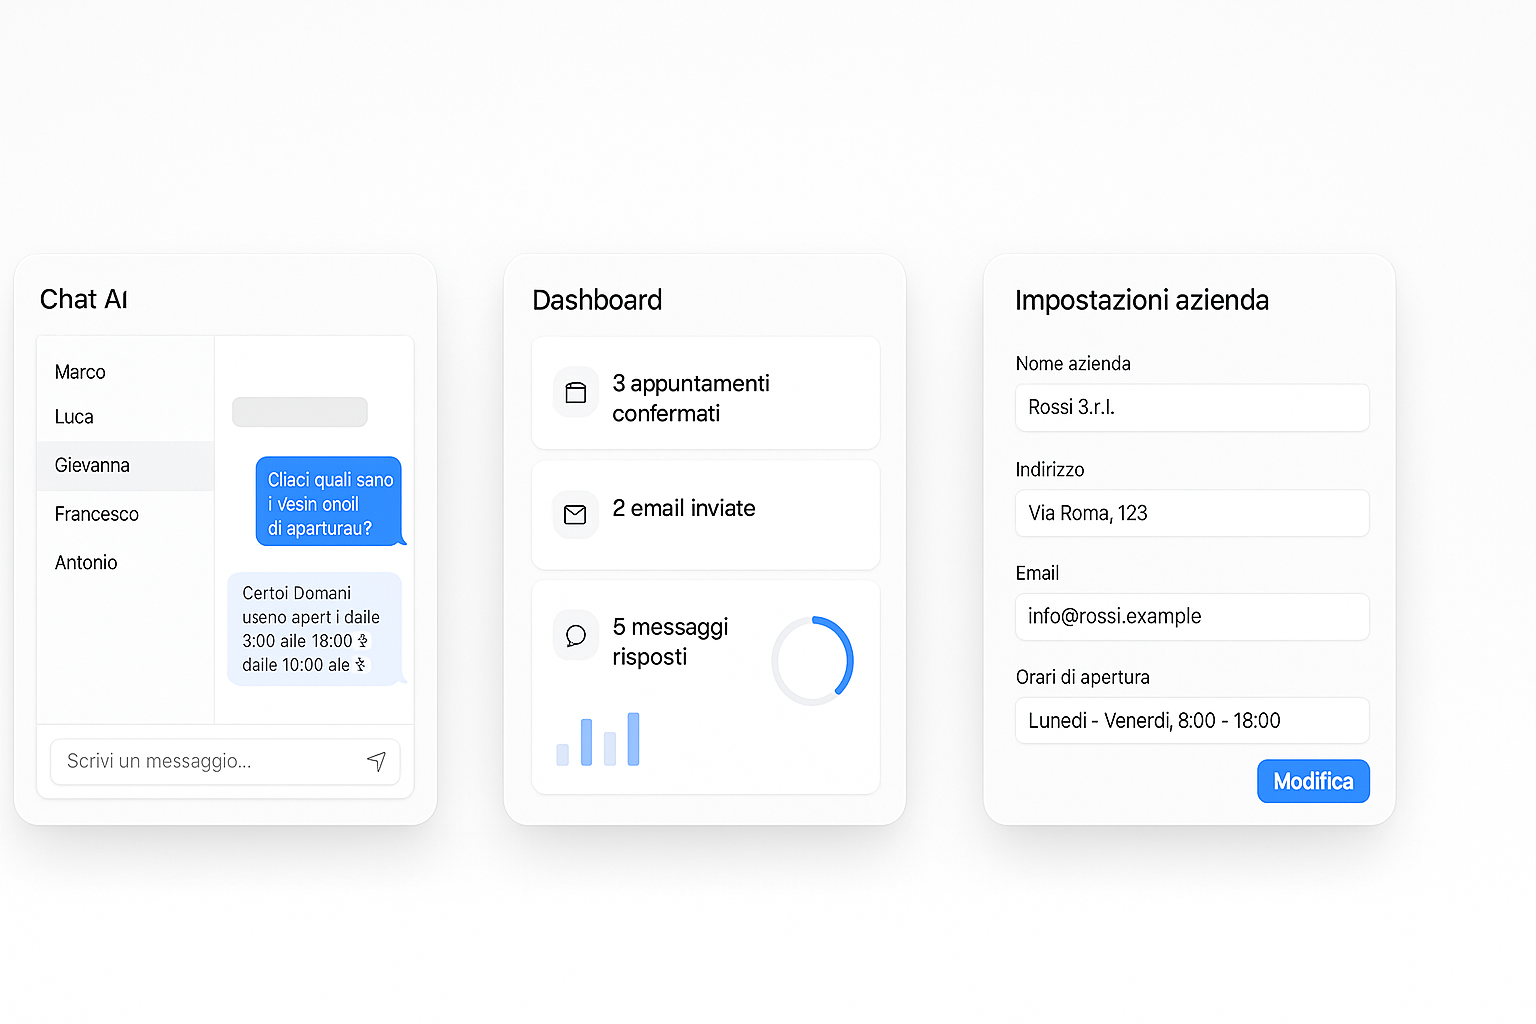
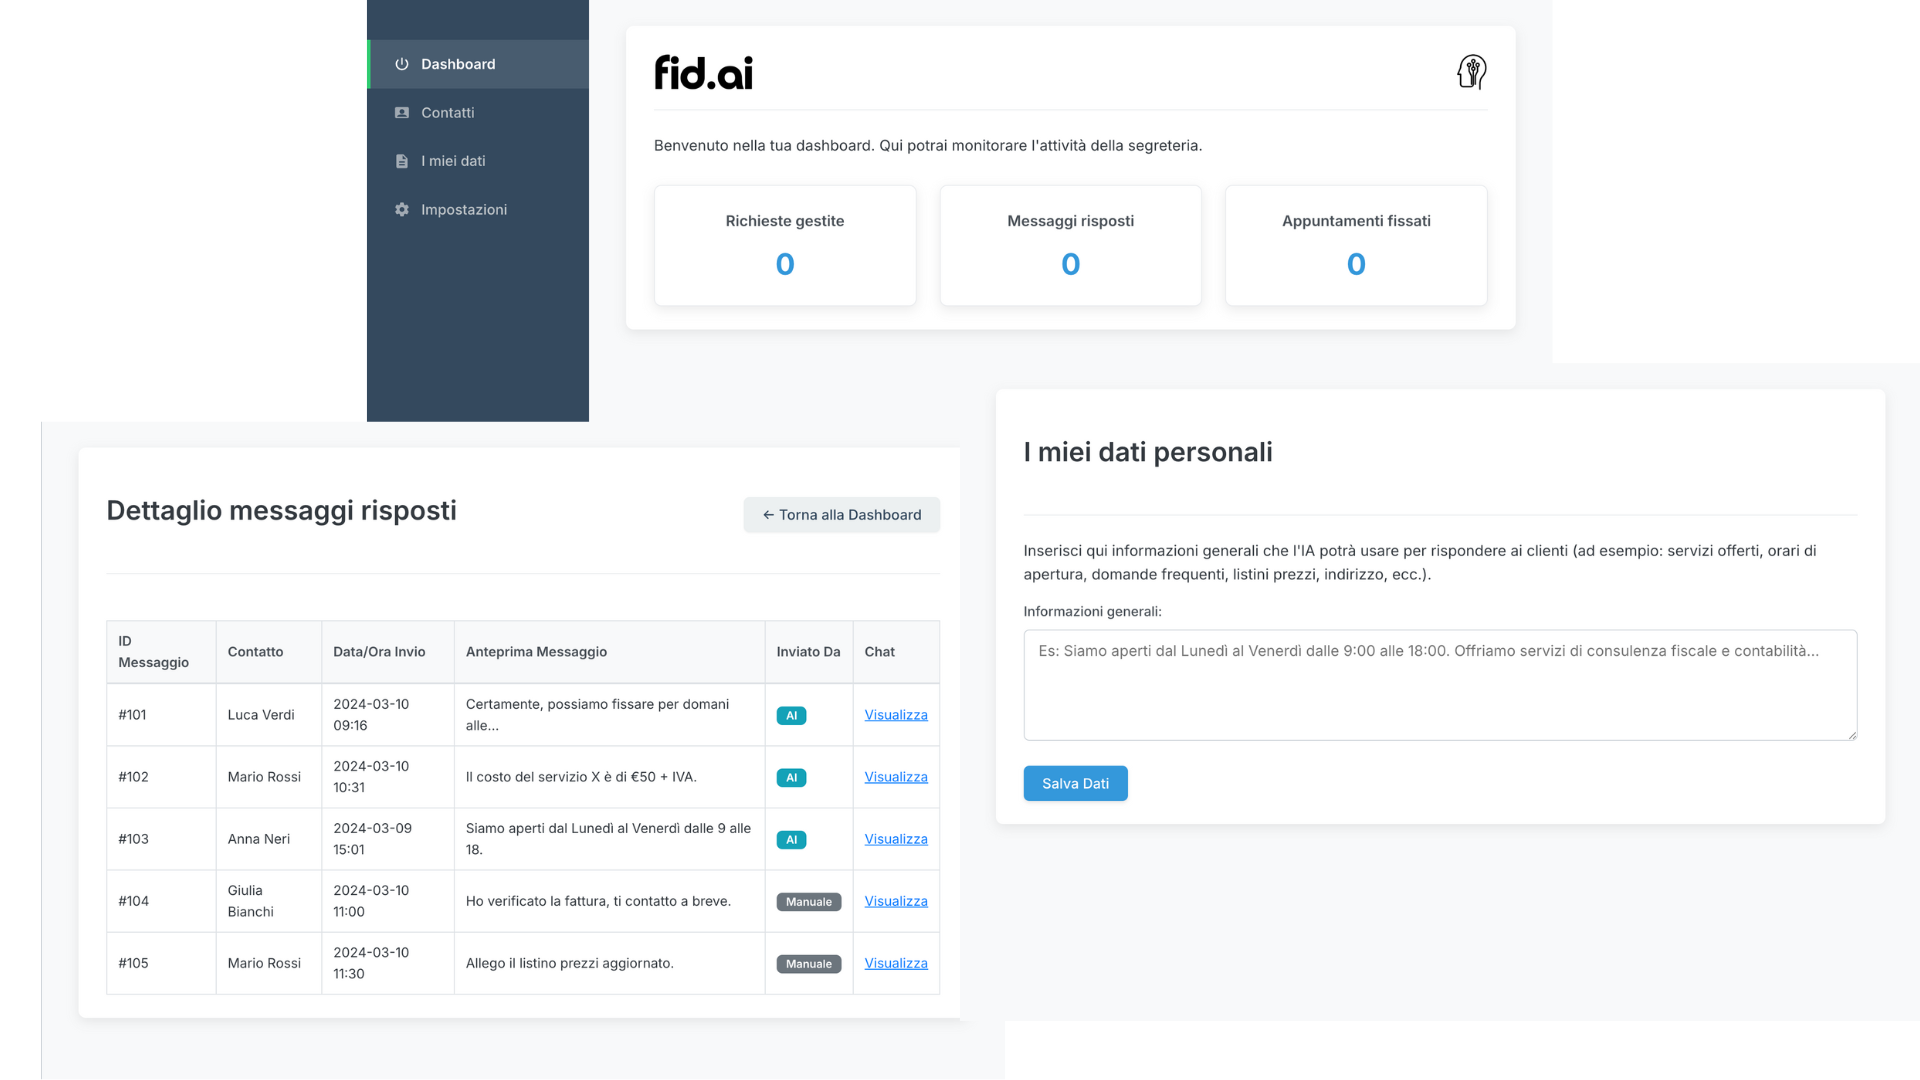
Aggiornamento form e php

diff --git a/index.html b/index.html
@@ -14,7 +14,7 @@
     <!-- Bootstrap CSS (Base per layout e grid) -->
     <link href="https://cdn.jsdelivr.net/npm/bootstrap@5.3.3/dist/css/bootstrap.min.css" rel="stylesheet" integrity="sha384-QWTKZyjpPEjISv5WaRU9OFeRpok6YctnYmDr5pNlyT2bRjXh0JMhjY6hW+ALEwIH" crossorigin="anonymous">
 
-    <!-- Font Awesome (Icone - ancora usate per alcune features) -->
+    <!-- Font Awesome (Icone) -->
     <link rel="stylesheet" href="https://cdnjs.cloudflare.com/ajax/libs/font-awesome/6.5.2/css/all.min.css" integrity="sha512-SnH5WK+bZxgPHs44uWIX+LLJAJ9/2PkPKZ5QiAj6Ta86w+fsb2TkcmfRyVX3pBnMFcV7oQPJkl9QevSCWr3W6A==" crossorigin="anonymous" referrerpolicy="no-referrer" />
 
     <!-- AOS - Animate On Scroll Library CSS -->
@@ -30,7 +30,6 @@
     <nav class="navbar navbar-expand-lg navbar-light bg-light-translucent fixed-top" id="mainNavbar">
         <div class="container">
             <a class="navbar-brand apple-nav-brand" href="#hero">
-                <!-- LOGO NOME AZIENDA: Assicurati che 'images/logo-nome-azienda.png' esista -->
                 <img src="images/logo-nome-azienda.png" alt="Segreteria Intelligente Logo" class="navbar-logo-img">
             </a>
             <button class="navbar-toggler border-0" type="button" data-bs-toggle="collapse" data-bs-target="#navbarNavApple" aria-controls="navbarNavApple" aria-expanded="false" aria-label="Toggle navigation">
@@ -64,7 +63,6 @@
                 <a href="#features" class="btn btn-outline-secondary apple-cta-secondary">Scopri di più <i class="fas fa-arrow-right small ms-1"></i></a>
             </div>
             <div class="hero-image-placeholder mt-5" data-aos="fade-up" data-aos-delay="300">
-                 <!-- IMMAGINE HERO PLACEHOLDER -->
                  <img src="images/placeholder-hero-apple.png" alt="Fid.ai per Desktop" class="img-fluid">
             </div>
         </div>
@@ -79,7 +77,6 @@
                 <div class="col-md-6 col-lg-3" data-aos="fade-up">
                     <div class="feature-card-apple text-center">
                          <div class="feature-icon-apple bg-blue-soft">
-                            <!-- LOGO TESTA SIMBOLO: Assicurati che 'images/logo-testa-simbolo.png' esista -->
                             <img src="images/logo-testa-simbolo.png" alt="AI Icon" class="feature-icon-image">
                          </div>
                         <h3 class="apple-h3 mt-3 mb-2">Risposte intelligenti</h3>
@@ -93,7 +90,7 @@
                             <i class="fas fa-plug-circle-check text-green"></i>
                          </div>
                         <h3 class="apple-h3 mt-3 mb-2">Configurazione rapida</h3>
-                        <p class="apple-p-small">Collega il tuo WhatsApp Business in pochi minuti tramite partner tecnologici affidabili (Twilio).</p>
+                        <p class="apple-p-small">Collega il tuo WhatsApp Business in pochi minuti tramite partner tecnologici affidabili (Sinch).</p>
                     </div>
                 </div>
                 <div class="col-md-6 col-lg-3" data-aos="fade-up" data-aos-delay="200">
@@ -155,9 +152,9 @@
                  <span class="apple-tag">Consulenti</span>
                  <span class="apple-tag">Artigiani</span>
                  <span class="apple-tag">Formatori</span>
-                 <span class="apple-tag">Studi Medici</span>
+                 <span class="apple-tag">Studi medici</span>
                  <span class="apple-tag">Negozi</span>
-                 <span class="apple-tag">Agenti Immobiliari</span>
+                 <span class="apple-tag">Agenti immobiliari</span>
              </div>
          </div>
     </section>
@@ -175,14 +172,14 @@
                         <h3 class="apple-h3">Programma early access</h3>
                         <p class="apple-p mt-2 mb-4">Ricevi aggiornamenti, fornisci feedback e ottieni un prezzo di lancio vantaggioso.</p>
                         <a href="#contact" class="btn btn-primary apple-cta-main">Richiedi accesso ora</a>
-                        <p class="apple-p-small text-muted mt-3">(Costi infrastruttura WhatsApp/Twilio inclusi!)</p>
+                        <p class="apple-p-small text-muted mt-3">(Costi infrastruttura WhatsApp/Sinch inclusi!)</p>
                     </div>
                 </div>
             </div>
         </div>
     </section>
 
-    <!-- Contact Section con placeholder aggiornati -->
+    <!-- Contact Section con form funzionante -->
     <section id="contact" class="contact-apple py-5">
         <div class="container">
             <h2 class="apple-h2 text-center mb-3" data-aos="fade-up">Mettiti in contatto</h2>
@@ -191,26 +188,31 @@
             </p>
             <div class="row justify-content-center">
                 <div class="col-lg-6" data-aos="fade-up" data-aos-delay="200">
-                    <form id="contactFormApple">
+                    <!-- <<<=== IL FORM ORA PUNTA A process_form.php ===>>> -->
+                    <form id="contactFormApple" method="POST" action="process_form.php">
                         <div class="mb-3">
                             <label for="appleName" class="form-label apple-form-label visually-hidden">Nome</label>
-                            <input type="text" class="form-control apple-input" id="appleName" placeholder="Nome" required>
+                            <!-- <<<=== Aggiunto name="nome" ===>>> -->
+                            <input type="text" class="form-control apple-input" id="appleName" name="nome" placeholder="Nome" required>
                         </div>
                         <div class="mb-3">
                              <label for="appleEmail" class="form-label apple-form-label visually-hidden">Email</label>
-                            <input type="email" class="form-control apple-input" id="appleEmail" placeholder="Email" required>
+                             <!-- <<<=== Aggiunto name="email" ===>>> -->
+                            <input type="email" class="form-control apple-input" id="appleEmail" name="email" placeholder="Email" required>
                         </div>
                         <div class="mb-4">
                             <label for="appleMessage" class="form-label apple-form-label visually-hidden">Messaggio</label>
-                            <textarea class="form-control apple-input" id="appleMessage" rows="4" placeholder="Messaggio (opzionale)"></textarea>
+                            <!-- <<<=== Aggiunto name="messaggio" ===>>> -->
+                            <textarea class="form-control apple-input" id="appleMessage" name="messaggio" rows="4" placeholder="Messaggio (opzionale)"></textarea>
                         </div>
                         <div class="text-center">
                             <button type="submit" class="btn btn-primary apple-cta-main">Invia richiesta</button>
                         </div>
                     </form>
                      <p class="text-center apple-p-small text-muted mt-4">
-                        In alternativa, scrivici a: <a href="mailto:services.fidai@gmail.com" class="apple-link">services.fidai@gmail.com</a>
-                        <!-- SOSTITUIRE EMAIL! -->
+                        In alternativa, scrivici a:
+                        <!-- <<<=== SOSTITUISCI CON LA TUA EMAIL PROFESSIONALE! ===>>> -->
+                        <a href="mailto:contatti@TUO-DOMINIO.com" class="apple-link">contatti@TUO-DOMINIO.com</a>
                     </p>
                 </div>
             </div>
@@ -221,28 +223,22 @@
     <footer class="apple-footer text-center py-5">
         <div class="container">
             <p class="apple-footer-text mb-2">
-                Copyright © 2025 Fid.ai. Tutti i diritti riservati.
+                Copyright © 2025 Fid.ai. Tutti i diritti riservati. <!-- Aggiorna l'anno se necessario -->
             </p>
-            <div class="apple-footer-links mb-3"> <!-- Aggiunto mb-3 -->
+            <div class="apple-footer-links mb-3">
+                 <!-- <<<=== SOSTITUIRE LINK REALI! ===>>> -->
                 <a href="#" class="apple-footer-link">Privacy Policy</a>
                 <span class="mx-1">|</span>
                 <a href="#" class="apple-footer-link">Termini di Servizio</a>
                 <span class="mx-1">|</span>
-                <a href="#contact" class="apple-footer-link">Contatti</a> <!-- Link alla sezione contatti -->
-                 <!-- SOSTITUIRE LINK REALI! -->
+                <a href="#contact" class="apple-footer-link">Contatti</a>
             </div>
             <div class="apple-social-icons">
-                <a href="https://www.linkedin.com/in/tuo-profilo" aria-label="LinkedIn">
-                  <i class="fab fa-linkedin-in"></i>
-                </a>
-                <a href="https://www.facebook.com/tuo-profilo" aria-label="Facebook">
-                  <i class="fab fa-facebook-f"></i>
-                </a>
-                <a href="https://x.com/tuo-profilo" aria-label="X">
-                  <i class="fab fa-x-twitter"></i>
-                </a>
-              </div>
-              
+                 <!-- <<<=== SOSTITUIRE LINK REALI AI TUOI PROFILI SOCIAL! ===>>> -->
+                <a href="#" aria-label="LinkedIn"><i class="fab fa-linkedin-in"></i></a>
+                <a href="#" aria-label="Facebook"><i class="fab fa-facebook-f"></i></a>
+                <a href="#" aria-label="X"><i class="fab fa-x-twitter"></i></a>
+            </div>
         </div>
     </footer>
 

diff --git a/thankyou.html b/thankyou.html
@@ -1,0 +1,53 @@
+<!DOCTYPE html>
+<html lang="it">
+<head>
+    <meta charset="UTF-8">
+    <meta name="viewport" content="width=device-width, initial-scale=1.0">
+    <title>Richiesta Inviata - Fid.ai</title>
+    <!-- Riusiamo alcuni stili base se vuoi, o metti tutto inline -->
+    <link href="https://fonts.googleapis.com/css2?family=Inter:wght@400;600&display=swap" rel="stylesheet">
+    <link href="https://cdn.jsdelivr.net/npm/bootstrap@5.3.3/dist/css/bootstrap.min.css" rel="stylesheet">
+    <style>
+        body {
+            font-family: 'Inter', sans-serif;
+            background-color: #f5f5f7;
+            display: flex;
+            justify-content: center;
+            align-items: center;
+            min-height: 100vh;
+            text-align: center;
+            color: #1d1d1f;
+        }
+        .container {
+            max-width: 600px;
+            padding: 3rem;
+            background-color: #ffffff;
+            border-radius: 12px;
+            box-shadow: 0 8px 25px rgba(0, 0, 0, 0.06);
+        }
+        h1 { font-weight: 600; margin-bottom: 1rem; }
+        p { color: #6e6e73; margin-bottom: 2rem; font-size: 1.1rem; }
+        .btn-primary {
+            background-color: #007AFF;
+            border-color: #007AFF;
+            font-weight: 500;
+            padding: 0.7rem 1.5rem;
+            border-radius: 20px;
+            text-decoration: none;
+            color: #fff;
+            display: inline-block;
+        }
+         .btn-primary:hover {
+            background-color: #0056b3;
+            border-color: #0056b3;
+        }
+    </style>
+</head>
+<body>
+    <div class="container">
+        <h1>Grazie!</h1>
+        <p>La tua richiesta è stata inviata con successo. Ti contatteremo il prima possibile all'indirizzo email che hai fornito.</p>
+        <a href="index.html" class="btn btn-primary">Torna alla Homepage</a>
+    </div>
+</body>
+</html>

diff --git a/js/script.js b/js/script.js
@@ -11,24 +11,16 @@ document.addEventListener('DOMContentLoaded', function() {
     });
 
 
-    // 2. Gestione simulata per il form di contatto (Apple Style)
-    // ----------------------------------------------------------
-    const contactFormApple = document.getElementById('contactFormApple');
-    if (contactFormApple) {
-        contactFormApple.addEventListener('submit', function(event) {
-            event.preventDefault(); // Impedisce l'invio reale del form
-
-            const name = document.getElementById('appleName').value;
-            const email = document.getElementById('appleEmail').value;
-
-            if (name && email) {
-                 alert(`Grazie, ${name}! La tua richiesta è stata ricevuta.\nTi contatteremo presto a ${email}.\n(Simulazione - Nessun dato inviato).`);
-                contactFormApple.reset();
-            } else {
-                 alert('Per favore, compila nome ed email.');
-            }
-        });
-    }
+    // 2. Gestione simulata per il form di contatto RIMOSSA
+    // ---------------------------------------------------
+    // const contactFormApple = document.getElementById('contactFormApple');
+    // if (contactFormApple) {
+    //     contactFormApple.addEventListener('submit', function(event) {
+    //         event.preventDefault(); // <-- RIMOSSO: Ora il form verrà inviato al PHP
+    //         // ... logica alert rimossa ...
+    //     });
+    // }
+    // Ora il form verrà gestito dal file specificato nell'attributo "action"
 
 
     // 3. Chiude la navbar mobile dopo aver cliccato un link (Apple Style)

diff --git a/css/style.css b/css/style.css
@@ -403,7 +403,7 @@ a:hover, .apple-link:hover {
 /* Responsive Adjustments */
 /* ========================================= */
 @media (max-width: 991.98px) {
-    body { padding-top: 60px; }
+    body { padding-top: 60px; } /* Considera l'altezza navbar */
     .navbar { padding-top: 0.6rem; padding-bottom: 0.6rem; }
     .apple-nav-link { margin: 0.2rem 0; }
     .apple-hero { padding-top: calc(60px + 3rem); min-height: auto; }

diff --git a/process_form.php b/process_form.php
@@ -1,0 +1,93 @@
+<?php
+// Imposta l'encoding per sicurezza
+mb_internal_encoding('UTF-8');
+
+// Solo procedi se il form è stato inviato con metodo POST
+if ($_SERVER["REQUEST_METHOD"] == "POST") {
+
+    // --- 1. Recupera e Sanifica i Dati ---
+    // Usa filter_input per sicurezza contro XSS etc.
+    $nome = filter_input(INPUT_POST, 'nome', FILTER_SANITIZE_SPECIAL_CHARS);
+    $email_mittente = filter_input(INPUT_POST, 'email', FILTER_SANITIZE_EMAIL);
+    $messaggio = filter_input(INPUT_POST, 'messaggio', FILTER_SANITIZE_SPECIAL_CHARS);
+
+    // Rimuovi spazi bianchi extra
+    $nome = trim($nome);
+    $email_mittente = trim($email_mittente);
+    $messaggio = trim($messaggio);
+
+    // --- 2. Validazione Base ---
+    $errors = [];
+    if (empty($nome)) {
+        $errors[] = "Il nome è obbligatorio.";
+    }
+    if (empty($email_mittente)) {
+        $errors[] = "L'email è obbligatoria.";
+    } elseif (!filter_var($email_mittente, FILTER_VALIDATE_EMAIL)) {
+        $errors[] = "L'indirizzo email non è valido.";
+    }
+    // Il messaggio è opzionale, quindi non lo validiamo se vuoto
+
+    // --- 3. Se ci sono errori, fermati e mostrali (o reindirizza a pagina errore) ---
+    if (!empty($errors)) {
+        // Potresti reindirizzare a una pagina di errore passando i messaggi
+        // header("Location: error.php?errors=" . urlencode(implode('<br>', $errors)));
+        // Per semplicità, li mostriamo qui (non ideale per la produzione)
+        echo "<h1>Errore nell'invio</h1>";
+        echo "<p>Si sono verificati i seguenti errori:</p><ul>";
+        foreach ($errors as $error) {
+            echo "<li>" . htmlspecialchars($error, ENT_QUOTES, 'UTF-8') . "</li>";
+        }
+        echo "</ul>";
+        echo '<p><a href="index.html#contact">Torna al modulo</a></p>';
+        exit; // Interrompe lo script
+    }
+
+    // --- 4. Prepara l'Email ---
+
+    // <<<=== SOSTITUISCI CON LA TUA EMAIL PROFESSIONALE REALE! ===>>>
+    $destinatario = "tua_email_professionale@tuo-dominio.com";
+
+    $oggetto = "Nuova Richiesta Accesso Anticipato Fid.ai da " . $nome;
+
+    // Costruisci il corpo dell'email
+    $corpo_email = "Hai ricevuto una nuova richiesta dal form di contatto Fid.ai:\n\n";
+    $corpo_email .= "Nome: " . $nome . "\n";
+    $corpo_email .= "Email: " . $email_mittente . "\n\n";
+    if (!empty($messaggio)) {
+        $corpo_email .= "Messaggio:\n--------------------\n" . $messaggio . "\n--------------------\n";
+    } else {
+        $corpo_email .= "Messaggio: (Nessuno)\n";
+    }
+    $corpo_email .= "\n---\nInviato tramite il form su tuo-dominio.com"; // <<<=== Aggiorna con il tuo dominio
+
+    // Intestazioni Email (Headers) - IMPORTANTI!
+    // Usa un indirizzo "From" del tuo dominio (es. noreply@) per migliorare la recapitabilità
+    // <<<=== Aggiorna 'webmaster@...' con un indirizzo valido sul tuo dominio ===>>>
+    $headers = "From: Fid.ai Notifiche <noreply@" . $_SERVER['SERVER_NAME'] . ">\r\n";
+    $headers .= "Reply-To: " . $nome . " <" . $email_mittente . ">\r\n"; // Così puoi rispondere direttamente all'utente
+    $headers .= "Content-Type: text/plain; charset=UTF-8\r\n";
+    $headers .= "X-Mailer: PHP/" . phpversion();
+
+    // --- 5. Invia l'Email ---
+    if (mail($destinatario, $oggetto, $corpo_email, $headers)) {
+        // Successo: Reindirizza a una pagina di ringraziamento
+        header("Location: thankyou.html");
+        exit;
+    } else {
+        // Errore nell'invio: Mostra un messaggio generico
+        // (In produzione, dovresti loggare l'errore invece di mostrarlo all'utente)
+        error_log("Errore invio email da form contatto per: " . $email_mittente . " da IP: " . $_SERVER['REMOTE_ADDR']);
+        echo "<h1>Errore Server</h1>";
+        echo "<p>Siamo spiacenti, si è verificato un problema tecnico e non è stato possibile inviare la tua richiesta. Riprova più tardi o contattaci direttamente all'indirizzo email indicato nel footer.</p>";
+        echo '<p><a href="index.html#contact">Torna al modulo</a></p>';
+        exit;
+    }
+
+} else {
+    // Se qualcuno tenta di accedere direttamente a questo file PHP
+    // Reindirizza alla homepage o mostra un errore
+    header("Location: index.html");
+    exit;
+}
+?>
